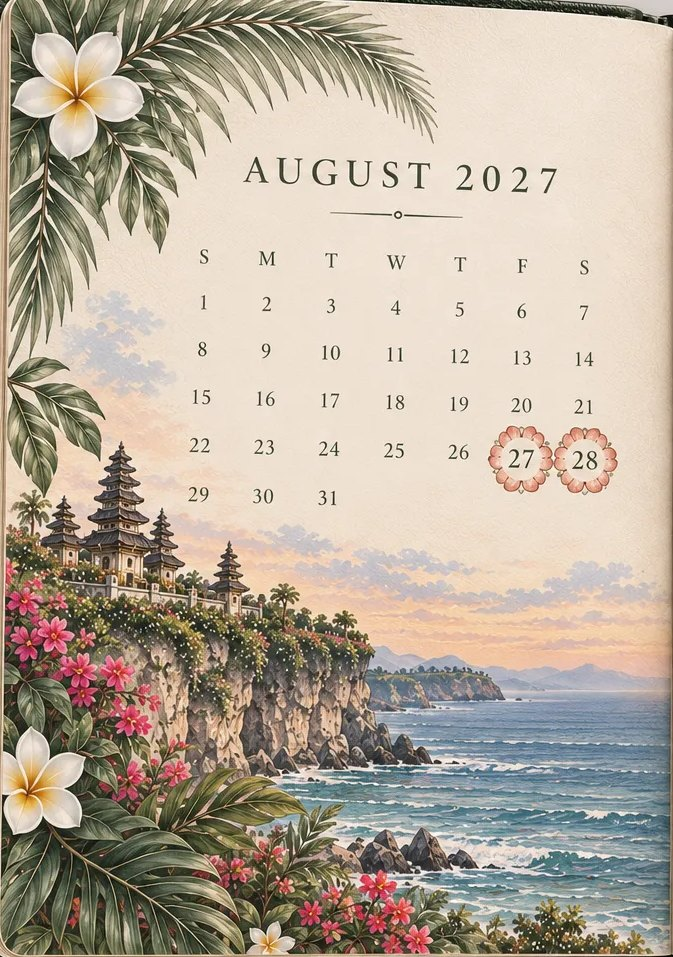
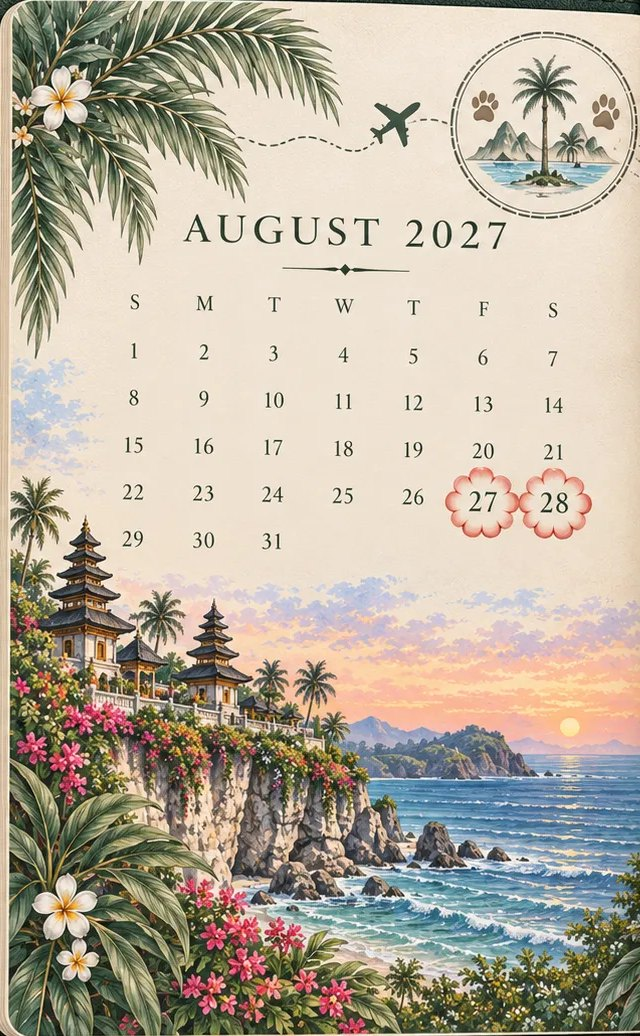
Scroll cues, step dots, water-only ripple, new calendar spread
After every beat a resting cue appears, worded for the input (swipe or scroll), and step dots at the edge show where the book is; the weekend map gets four dots and a caption under the empty island. The sea ripple is masked per pixel to water, so the rocks and the cliff hold still. The passport's calendar and itinerary pages take the new painted spread.

Claude-Session: https://claude.ai/code/session_01GqK2ENqeRUwQmtgcSZFd9X

diff --git a/index.html b/index.html
@@ -125,7 +125,7 @@ button,input,select,textarea{font:inherit;color:inherit}
 .stage.is-static .scrim{display:none}
 /* the sea, in motion: a canvas laid over the water in the painting */
 .sea{position:absolute;left:0;top:0;z-index:0;pointer-events:none;opacity:0;transition:opacity 1.2s ease;
-  -webkit-mask-image:linear-gradient(180deg,transparent,#000 8%,#000 90%,transparent);mask-image:linear-gradient(180deg,transparent,#000 8%,#000 90%,transparent)}
+  -webkit-mask-image:url("assets/sea-mask.png");mask-image:url("assets/sea-mask.png");-webkit-mask-size:100% 100%;mask-size:100% 100%;-webkit-mask-repeat:no-repeat;mask-repeat:no-repeat}
 .sea.is-on{opacity:1}
 .stage.is-static .sea{display:none}
 .cap-top{top:max(8.5%,calc(env(safe-area-inset-top) + 44px))}
@@ -141,9 +141,21 @@ button,input,select,textarea{font:inherit;color:inherit}
   position:absolute;transition:opacity .4s,visibility .4s;left:0;right:0;top:auto;bottom:calc(max(30px,env(safe-area-inset-bottom)) + 10px);
   text-align:center;text-decoration:none;
   font-family:var(--mono);font-size:12.5px;letter-spacing:.14em;text-transform:uppercase;color:var(--ink);
-  opacity:0;visibility:hidden;z-index:1;
+  z-index:1;
 }
 .more.is-hidden{opacity:0!important;visibility:hidden!important}
+/* Step dots: one per resting point, the current one filled. They show only while the book holds the page. */
+.steps{position:absolute;right:max(12px,env(safe-area-inset-right));top:50%;transform:translateY(-50%);left:auto;margin:0;padding:0;list-style:none;display:grid;gap:10px;z-index:9;opacity:0;transition:opacity .4s;pointer-events:none}
+.steps li{width:9px;height:9px;border-radius:50%;border:1.5px solid rgba(89,96,68,.9);background:rgba(248,243,232,.7);box-shadow:0 0 8px rgba(255,250,238,.9);transition:background .3s,transform .3s}
+.steps li.is-done{background:rgba(89,96,68,.55)}
+.steps li.is-now{background:var(--olive);transform:scale(1.25)}
+.stage.is-locked .steps,.map-pin .steps{opacity:1}
+.map-pin .steps{right:max(10px,env(safe-area-inset-right))}
+.map-cue{position:absolute;left:0;right:0;bottom:max(24px,env(safe-area-inset-bottom));text-align:center;font-family:var(--mono);font-size:12.5px;letter-spacing:.14em;text-transform:uppercase;color:var(--ink);pointer-events:none;z-index:6;margin:0}
+.map-cue span{display:inline-block;background:rgba(242,237,227,.72);border-radius:999px;padding:6px 14px;backdrop-filter:blur(4px);-webkit-backdrop-filter:blur(4px)}
+.map-cue svg{display:block;margin:6px auto 0;width:18px;height:18px;animation:bob 1.8s ease-in-out infinite}
+.map-stage.is-static .map-cue,.map-stage.is-static .steps{display:none}
+@media (prefers-reduced-motion:reduce){.map-cue svg{animation:none}}
 .more span{display:inline-block;background:rgba(242,237,227,.72);border-radius:999px;padding:6px 14px;backdrop-filter:blur(4px);-webkit-backdrop-filter:blur(4px)}
 .more svg{display:block;margin:10px auto 0;width:18px;height:18px;animation:bob 1.8s ease-in-out infinite}
 .more:focus-visible{outline:2px solid var(--gold);outline-offset:6px;border-radius:4px}
@@ -289,8 +301,8 @@ button,input,select,textarea{font:inherit;color:inherit}
 .pp-base{z-index:1}
 /* painted pages */
 .pp-art{padding:0;background-position:center;background-size:cover;background-repeat:no-repeat}
-.pp-art.art-cal{background-image:url("assets/pp-calendar.jpg")}
-.pp-art.art-itin{background-image:url("assets/pp-itinerary.jpg")}
+.pp-art.art-cal{background-image:url("assets/pp-calendar.jpg");background-position:center 32%}
+.pp-art.art-itin{background-image:url("assets/pp-itinerary.jpg");background-position:center 38%}
 .pp-cover{
   position:absolute;inset:0;z-index:40;transform-origin:0 50%;transform-style:preserve-3d;
   will-change:transform;
@@ -696,7 +708,8 @@ hr.rule{border:0;border-top:1px solid rgba(89,96,68,.2);margin:2.5em 0}
 
       <button class="open-btn" id="openBtn" type="button" aria-label="Open the invitation"></button>
 
-      <a class="more is-hidden" id="more" href="#letter"><span>Swipe up for the details</span>
+      <ol class="steps" id="steps" aria-hidden="true"></ol>
+      <a class="more is-hidden" id="more" href="#letter"><span id="moreText">Swipe up for the details</span>
         <svg viewBox="0 0 24 24" aria-hidden="true"><path d="M4 9l8 8 8-8" fill="none" stroke="currentColor" stroke-width="1.5"/></svg>
       </a>
 
@@ -822,6 +835,8 @@ hr.rule{border:0;border-top:1px solid rgba(89,96,68,.2);margin:2.5em 0}
      ======================================================================= -->
 <section class="map-stage" id="weekend" aria-label="Our Bali weekend">
   <div class="map-pin">
+    <ol class="steps" id="mapSteps" aria-hidden="true"><li></li><li></li><li></li><li></li></ol>
+    <p class="map-cue" id="mapCue"><span>Scroll to follow the weekend</span><svg viewBox="0 0 24 24" aria-hidden="true"><path d="M4 9l8 8 8-8" fill="none" stroke="currentColor" stroke-width="1.5"/></svg></p>
     <div class="map-island" id="mapIsland">
       <div class="map-ivory" aria-hidden="true"></div>
       <svg class="map-rim" viewBox="0 0 100 100" preserveAspectRatio="none" aria-hidden="true"><polygon points="25.94,0.02 27.93,0.31 29.67,0.64 31.30,1.16 32.67,1.80 34.08,2.43 35.48,3.06 36.87,3.72 37.89,4.64 38.84,5.58 39.74,6.54 40.66,7.49 41.48,8.40 42.41,9.41 43.48,10.38 44.61,11.31 45.39,12.26 46.10,13.25 46.71,14.25 47.54,15.11 48.70,15.87 49.85,16.65 51.05,17.39 52.35,18.08 53.67,18.75 54.96,19.46 56.16,20.21 57.25,21.02 58.28,21.85 59.45,22.69 60.68,23.50 61.95,24.29 63.26,25.07 64.60,25.74 65.96,26.39 67.32,27.04 68.64,27.72 69.90,28.43 71.11,29.13 72.39,29.85 73.66,30.56 74.96,31.26 76.31,31.92 77.71,32.55 79.16,33.22 80.62,33.89 82.04,34.57 83.41,35.29 84.74,36.04 85.92,36.80 87.10,37.55 88.32,38.29 89.58,39.00 90.90,39.67 91.76,40.65 92.63,41.63 93.45,42.62 94.19,43.64 94.84,44.66 95.46,45.70 96.09,46.74 96.46,47.77 96.86,48.79 97.23,49.82 97.49,50.84 97.70,51.85 98.03,52.86 98.43,53.86 98.74,54.87 98.88,55.90 98.88,56.93 98.77,57.93 98.66,58.95 98.70,59.97 98.88,60.98 99.15,62.00 99.46,63.01 99.76,64.03 99.89,65.07 99.82,66.08 99.58,67.09 99.23,68.10 98.88,69.11 98.61,70.12 98.47,71.13 98.55,72.15 98.77,73.16 98.93,74.18 99.02,75.19 99.08,76.21 99.13,77.23 99.18,78.25 99.08,79.24 98.87,80.25 98.70,81.27 98.57,82.28 98.47,83.30 98.38,84.32 98.31,85.34 98.03,86.30 97.50,87.28 96.98,88.26 96.42,89.24 95.78,90.19 95.07,91.13 94.32,92.06 93.60,93.02 92.32,93.80 91.04,94.56 89.69,95.28 88.25,95.96 86.78,96.62 85.48,97.25 83.92,97.61 82.30,98.11 80.72,98.66 79.12,99.17 77.46,99.61 75.81,100.00 74.08,99.66 72.28,99.35 70.46,99.09 68.60,98.89 66.72,98.73 64.85,98.57 62.80,98.31 61.40,97.49 60.24,96.73 59.13,95.94 58.07,95.12 57.04,94.29 56.03,93.45 55.06,92.58 54.16,91.69 53.23,90.81 52.26,89.95 51.20,89.12 50.07,88.32 48.89,87.54 47.73,86.75 46.63,85.93 45.96,84.96 45.33,84.00 44.73,83.04 44.14,82.07 43.58,81.10 43.03,80.12 42.44,79.16 41.74,78.20 40.92,77.27 40.03,76.35 39.17,75.43 38.40,74.49 37.69,73.53 36.96,72.57 36.14,71.64 35.06,70.85 34.00,70.05 33.01,69.22 32.06,68.38 31.11,67.54 30.15,66.70 29.21,65.86 28.25,65.02 27.31,64.13 26.42,63.22 25.53,62.30 24.71,61.37 24.01,60.41 23.40,59.43 22.87,58.42 22.36,57.41 21.77,56.42 21.04,55.47 20.19,54.54 19.30,53.63 18.41,52.71 17.55,51.79 16.75,50.86 16.20,49.84 15.95,48.81 15.70,47.78 15.39,46.76 15.03,45.75 14.62,44.74 14.17,43.73 13.79,42.72 13.51,41.71 13.26,40.70 13.06,39.68 12.92,38.66 12.83,37.63 12.75,36.61 12.41,35.57 11.82,34.54 11.15,33.53 10.40,32.53 9.33,31.68 8.26,30.83 7.28,29.96 6.38,29.06 5.50,28.15 4.57,27.25 3.55,26.39 2.46,25.53 1.63,24.53 0.91,23.51 0.35,22.46 0.23,21.38 0.53,20.37 0.75,19.35 0.84,18.39 1.30,17.41 1.68,16.36 2.03,15.32 2.74,14.36 3.85,13.47 5.02,12.61 6.20,11.75 7.52,11.14 9.15,10.64 10.74,10.10 12.29,9.52 13.83,8.94 15.38,8.36 16.96,7.81 18.11,7.15 19.07,6.26 20.06,5.39 21.06,4.52 22.04,3.65 23.00,2.77 23.92,1.88 24.83,0.99" fill="none" stroke="#9B8B57" stroke-opacity=".85" stroke-width="1" vector-effect="non-scaling-stroke"/></svg>
@@ -1310,6 +1325,18 @@ var RSVP_ENDPOINT = "";
       return c;
     }
     var DUR = [0, 5200, 6500, 4200, 2200];   /* ms to play from one resting point to the next */
+    /* the words match the input: a finger swipes, a mouse scrolls */
+    var isTouch = window.matchMedia('(hover: none) and (pointer: coarse)').matches;
+    var VERB = isTouch ? 'Swipe up' : 'Scroll';
+    var tapLine = hint.querySelector('.tap'); if (tapLine) tapLine.textContent = isTouch ? 'Tap the seal, or swipe up, to open' : 'Tap the seal, or scroll, to open';
+    var moreText = $('moreText'), stepsEl = $('steps');
+    function cue(text) { moreText.textContent = text; more.classList.remove('is-hidden'); }
+    function setDots(n) {
+      var total = checkpoints().length;
+      while (stepsEl.children.length < total) stepsEl.appendChild(document.createElement('li'));
+      while (stepsEl.children.length > total) stepsEl.removeChild(stepsEl.lastChild);
+      for (var i = 0; i < total; i++) { stepsEl.children[i].className = i < n ? 'is-done' : (i === n ? 'is-now' : ''); }
+    }
     var beat = 0, step = 0, locked = false, playing = null, cooldownUntil = 0;
     function draw() { render(beat / BEATS); }
     function tweenBook(target, dur, done) {
@@ -1346,19 +1373,20 @@ var RSVP_ENDPOINT = "";
       var dur = DUR[Math.max(n, step)] * (n < step ? .7 : 1);
       lock(true); more.classList.add('is-hidden');
       step = n;
+      setDots(n);
       tweenBook(cps[n], dur, function () {
         cooldownUntil = performance.now() + 450;
-        more.classList.toggle('is-hidden', step !== LAST - 1);
+        cue(step === LAST - 1 ? VERB + ' for the details' : VERB + ' to continue');
       });
     }
     function reenter() {   /* from the top of the details, back into the book at its last resting point */
       lock(true); step = lastStep() - 1; cooldownUntil = performance.now() + 500;
-      more.classList.remove('is-hidden');
+      setDots(step); cue(VERB + ' for the details');
     }
     function enter(n) {    /* the contents menu: straight to a resting point */
       if (playing) { cancelAnimationFrame(playing.raf); playing = null; }
       lock(true); window.scrollTo(0, 0);
-      step = n; tweenBook(checkpoints()[n], 900, function () { more.classList.toggle('is-hidden', step !== lastStep() - 1); });
+      step = n; setDots(n); tweenBook(checkpoints()[n], 900, function () { cue(step === lastStep() - 1 ? VERB + ' for the details' : (step === 0 ? '' : VERB + ' to continue')); if (step === 0) more.classList.add('is-hidden'); });
     }
 
     /* wheel: one gesture, one step; inertia after a step is swallowed */
@@ -1407,7 +1435,7 @@ var RSVP_ENDPOINT = "";
     }
     window.addEventListener('resize', onResize, { passive: true });
     onResize();
-    lock(true);
+    lock(true); setDots(0);
 
     /* ---- Our Bali weekend. The stage is pinned; the guest's scroll draws the route down the island,
        stop by stop. At each stop the badge, the drawing and the words arrive in turn; between stops a
@@ -1421,6 +1449,8 @@ var RSVP_ENDPOINT = "";
       for (var i = 0; i <= 800; i++) { var L = routeLen * i / 800, pt = mapRoute.getPointAtLength(L); var dd = (pt.x - st[0]) * (pt.x - st[0]) + (pt.y - st[1]) * (pt.y - st[1]); if (dd < bd) { bd = dd; best = L; } }
       return best;
     });
+    var mapCue = $('mapCue'), mapSteps = $('mapSteps');
+    mapCue.firstChild.textContent = VERB + ' to follow the weekend';
     var mapDeco = Array.prototype.slice.call(mapStage.querySelectorAll('.mp-deco')).map(function (el) { var v = el.getAttribute('data-in').split(','); return { el: el, a: +v[0], b: +v[1] }; });
     var mapEvs = [1, 2, 3, 4].map(function (n) { var e = $('mev' + n); return { badge: e.querySelector('.mp-badge'), ill: e.querySelector('.mp-ill'), text: e.querySelector('.mp-text') }; });
     var MSEG = [[0, .16], [.26, .42], [.52, .66], [.76, .90]], MREV = [[.16, .26], [.42, .52], [.66, .76], [.90, 1]];
@@ -1439,6 +1469,8 @@ var RSVP_ENDPOINT = "";
         mapCar.setAttribute('transform', 'translate(' + pt.x.toFixed(1) + ' ' + pt.y.toFixed(1) + ') rotate(' + (ang - 38).toFixed(1) + ')');
       }
       mapCar.setAttribute('opacity', carOn ? seg(p, MSEG[1][0], MSEG[1][0] + .03).toFixed(2) : 0);
+      mapCue.style.opacity = (1 - seg(p, 0, .05)).toFixed(2);
+      for (var si = 0; si < 4; si++) mapSteps.children[si].className = p >= MREV[si][1] ? 'is-done' : (p >= MSEG[si][0] ? 'is-now' : '');
       for (var di = 0; di < mapDeco.length; di++) { var dv = ease(seg(p, mapDeco[di].a, mapDeco[di].b)); mapDeco[di].el.style.opacity = (dv * .92).toFixed(3); mapDeco[di].el.style.transform = 'scale(' + (.96 + .04 * dv).toFixed(3) + ')'; }
       for (var k = 0; k < 4; k++) {
         var t = seg(p, MREV[k][0], MREV[k][1]), e = mapEvs[k];
@@ -1462,7 +1494,6 @@ var RSVP_ENDPOINT = "";
        so only the water sways. Starts after the painting has settled, and rests when off screen. ---- */
     var sea = $('sea'), seaCtx = sea.getContext('2d'), seaOff = null, seaOn = false, seaLast = 0;
     var SEA = { x: 0, y: 715, w: 941, h: 615 };                        /* the water, in the painting's pixels */
-    var SEA_CLIP = [[0,0],[941,0],[941,28],[720,52],[600,80],[548,130],[520,210],[510,320],[560,420],[615,520],[640,615],[0,615]];
     function fitSea() {
       if (!plateBase.naturalWidth) return;
       var W = plate.clientWidth, H = plate.clientHeight, dpr = Math.min(2, window.devicePixelRatio || 1);
@@ -1471,7 +1502,6 @@ var RSVP_ENDPOINT = "";
       sea.style.left = (ox + SEA.x * sc).toFixed(2) + 'px'; sea.style.top = (oy + SEA.y * sc).toFixed(2) + 'px';
       sea.style.width = cw.toFixed(2) + 'px'; sea.style.height = ch.toFixed(2) + 'px';
       sea.width = Math.round(cw * dpr); sea.height = Math.round(ch * dpr);
-      sea.style.clipPath = sea.style.webkitClipPath = 'polygon(' + SEA_CLIP.map(function (p) { return (p[0] / SEA.w * 100).toFixed(1) + '% ' + (p[1] / SEA.h * 100).toFixed(1) + '%'; }).join(',') + ')';
       seaOff = document.createElement('canvas'); seaOff.width = sea.width; seaOff.height = sea.height;
       seaOff.getContext('2d').drawImage(plateBase, SEA.x, SEA.y, SEA.w, SEA.h, 0, 0, sea.width, sea.height);
     }
